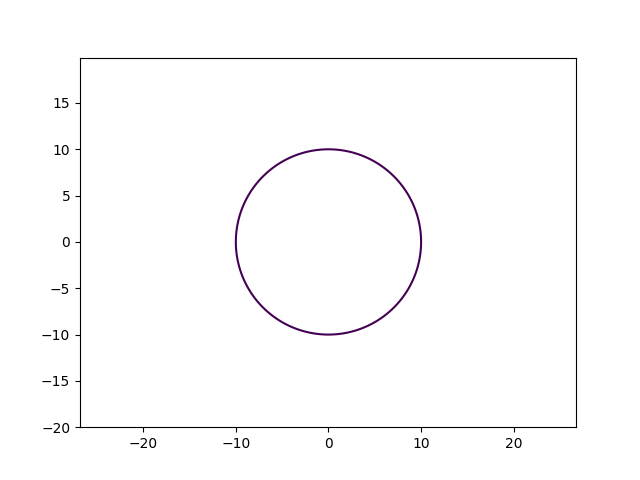
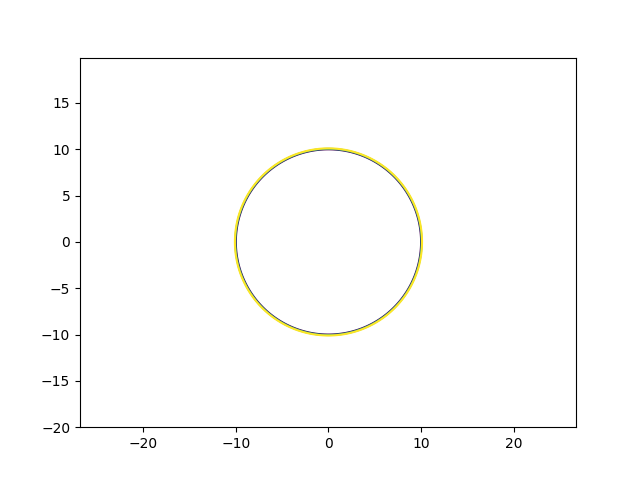
ghjuel

diff --git a/lec_implementation.py b/lec_implementation.py
@@ -3,9 +3,10 @@ import numpy as np
 
 
 def circle(R=10):
-
-    x = np.arange(-2*R, 2*R, 0.1)
-    y = np.arange(-2*R, 2*R, 0.1)
+    x = np.arange(-20, 20, 0.1)
+    y = np.arange(-20, 20, 0.1)
+   # x = np.arange(-2*R, 2*R, 0.1)
+   # y = np.arange(-2*R, 2*R, 0.1)
 
     # переход к заданным кординатам
     x, y = np.meshgrid(x, y)
@@ -13,7 +14,7 @@ def circle(R=10):
     fxy = x**2 + y**2 - R**2 # уравнеие круга
 
     # команда рисования
-    plt.contour(x, y, fxy, levels=[0])
+    plt.contour(x, y, fxy, levels=[0, 1, 2])
     plt.axis('equal')
 
     plt.savefig('fig_4.png')

diff --git a/task_2.py b/task_2.py
@@ -1,16 +1,15 @@
 import matplotlib.pyplot as plt
 import numpy as np
 
-N = int(input('введите количество точек - '))
+N = float(input('введите количество точек - '))
 def hyperbola(k=1):
 
-    x = np.arange(0, 10, N)
+    x = np.arange(1, 10, N)
     y = k/x
-
+    Nx = np.arange(-10, -1, N)
+    Ny = k/Nx
     plt.plot(x, y, label='hyperbola')
-
-    plt.axis('equal')
-
+    plt.plot(Nx, Ny, label='hyperbola')
     plt.savefig('fig_task_2.png')
 
 if __name__ == '__main__':

diff --git a/task_3.py b/task_3.py
@@ -1,0 +1,17 @@
+import matplotlib.pyplot as plt
+import numpy as np
+
+N = float(input('введите количество точек - '))
+def ellipse(a=2, b=1):
+   x = np.arange(-5, 5, N)
+   y = np.arange(-5, 5, N)
+
+   x, y = np.meshgrid(x, y)
+   
+   fxy = (x**2)/(a**2) + (y**2)/(b**2)
+   plt.contour(x, y, fxy, levels=[1])
+   plt.axis('equal')
+   plt.savefig('fig_task_3.png')
+
+if __name__ == '__main__':
+    ellipse()
